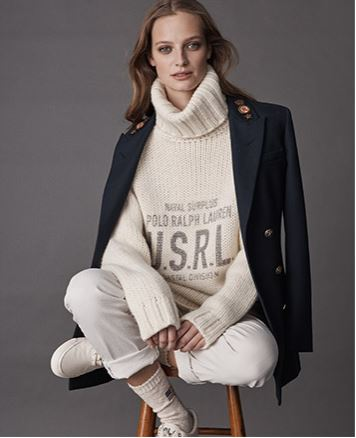
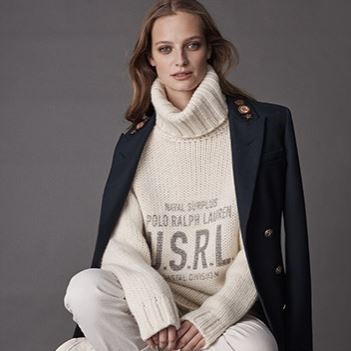
minor changes

diff --git a/women.html b/women.html
@@ -58,6 +58,11 @@ margin-right:auto;
 .left{
   float: right;
 }
+.mama{
+  margin-left: 5%;
+  margin-right: 5%;
+
+}
 
 </style>
 <body>
@@ -199,7 +204,7 @@ margin-right:auto;
 <p class="times align"> COLLECTION</p>
   <hr>
 
-  <div id="carouselExampleIndicators" class="carousel slide" data-ride="carousel">
+  <div id="carouselExampleIndicators" class="carousel slide mama" data-ride="carousel">
     <ol class="carousel-indicators">
       <li data-target="#carouselExampleIndicators" data-slide-to="0" class="active"></li>
       <li data-target="#carouselExampleIndicators" data-slide-to="1"></li>

diff --git a/hl.html b/hl.html
@@ -95,6 +95,10 @@
 .black{
   color: black;
 }
+.mama{
+  margin-left: 5%;
+  margin-right: 5%;
+}
 .fs{
   font-size: 550%;
 }
@@ -261,7 +265,7 @@
 <h4 class="times align white">- HOME: SHOP BY CATEGORY -</h4>
 <br>
 <br>
-<div id="carouselExampleIndicators" class="carousel slide" data-ride="carousel">
+<div id="carouselExampleIndicators" class="carousel slide mama" data-ride="carousel">
   <ol class="carousel-indicators">
     <li data-target="#carouselExampleIndicators" data-slide-to="0" class="active"></li>
     <li data-target="#carouselExampleIndicators" data-slide-to="1"></li>

diff --git a/zaracreate.html b/zaracreate.html
@@ -21,7 +21,7 @@
 </style>
 </head>
 
-<title>ZARA ACCOUNT</title>
+<title>Zara | Create Account</title>
 <br>
 <br>
 <a href="boot.html">
@@ -117,5 +117,8 @@
   <button type="submit" class="btn btn-secondary fontstimes">CREATE</button>
 </form>
 </div>
+<br>
+<br>
+
 </body>
 </html>
